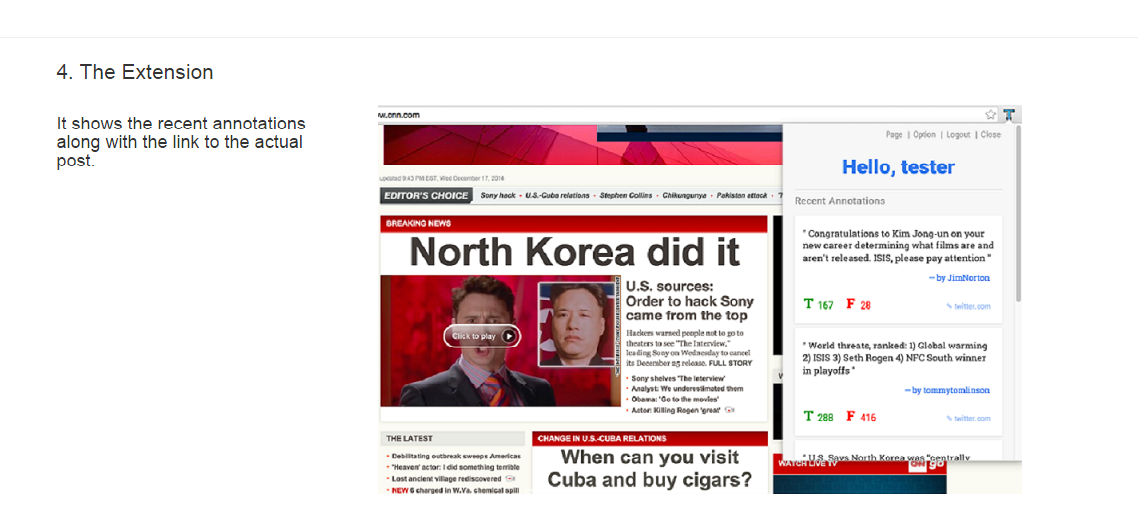
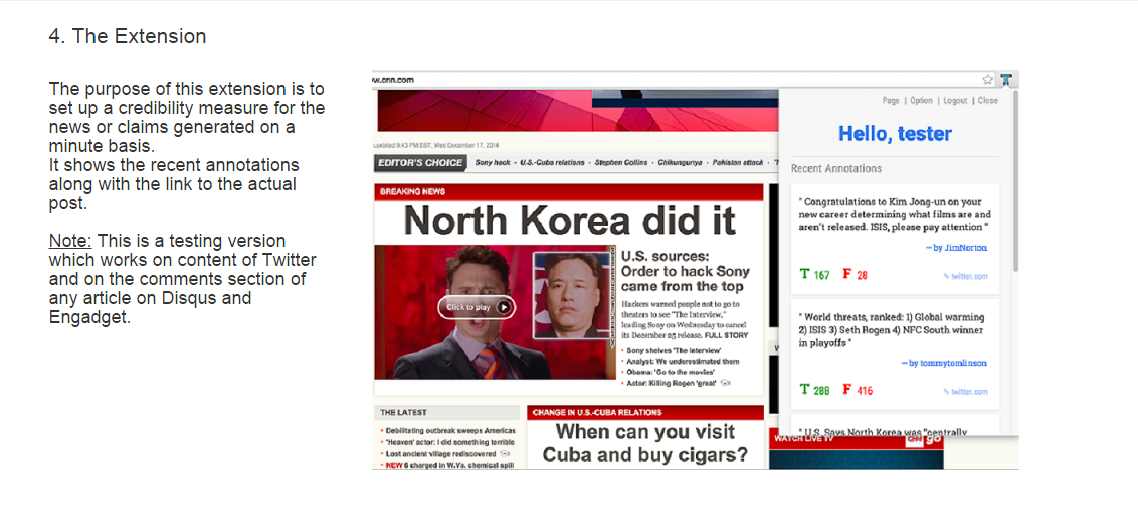
updated tutorial according to the initial feedback

Changed region(s): [[0.0308, 0.1174, 0.9227, 0.9687], [0.0308, 0.4403, 0.2768, 0.6458], [0.0308, 0.0587, 0.1845, 0.0881]]

diff --git a/index.html b/index.html
@@ -85,8 +85,6 @@
           <li data-target="#carousel-example-generic" data-slide-to="1"></li>
           <li data-target="#carousel-example-generic" data-slide-to="2"></li>
           <li data-target="#carousel-example-generic" data-slide-to="3"></li>
-          <li data-target="#carousel-example-generic" data-slide-to="4"></li>
-          <li data-target="#carousel-example-generic" data-slide-to="5"></li>
         </ol>
 
 
@@ -129,7 +127,7 @@
     <h3 class="lead" style="padding:0 0 0 2.7em">4. The Extension</h3>
       
      <div class="row">  
-      <h4 style="padding:0 0 0 4em;width:30%;float:left;">It shows the recent annotations along with the link to the actual post.</h4>
+      <h4 style="padding:0 0 0 4em;width:30%;float:left;">The purpose of this extension is to set up a credibility measure for the news or claims generated on a minute basis. <br/> It shows the recent annotations along with the link to the actual post.<br/><br/><u>Note:</u> This is a testing version which works on content of Twitter and on the comments section of any article on Disqus and Engadget.</h4>
          <img src="images/tuto1.png" alt="step4" class="img-responsive" style="padding:0 0 0 3em;">   
      </div-->
 
